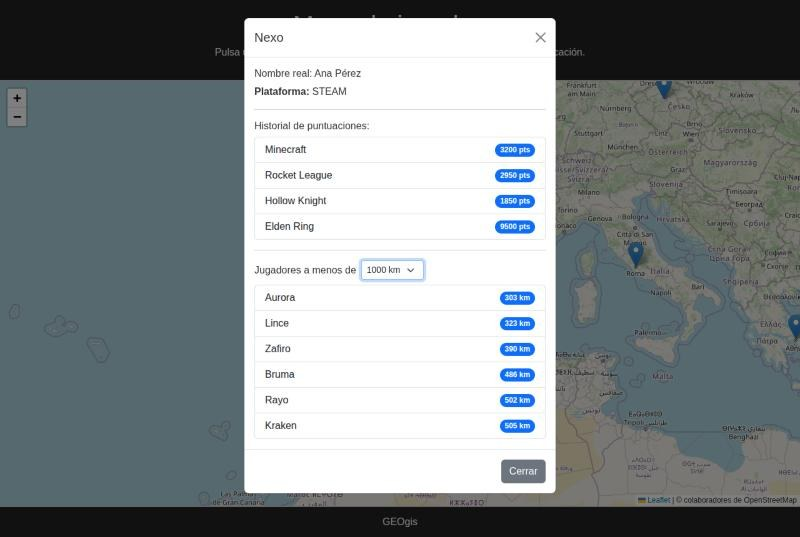
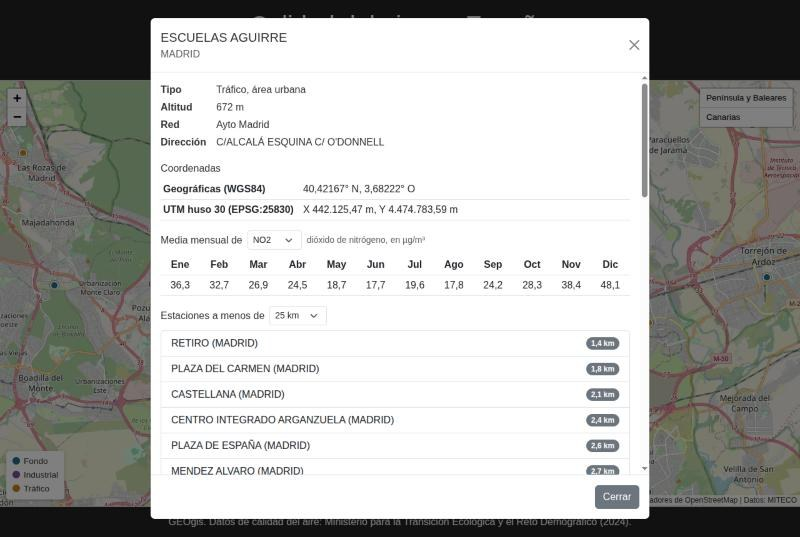
docs: README, capturas y CI para la nueva temática
- README: datos del MITECO y su licencia, sistemas de referencia, API e
  importación.
- Capturas nuevas (Península, ficha y Canarias).
- El CI de Docker importa las estaciones reales y comprueba la API.
- La ficha no repite municipio, provincia y comunidad cuando coinciden.

diff --git a/main/static/js/Main.js b/main/static/js/Main.js
@@ -163,8 +163,11 @@ document.addEventListener('DOMContentLoaded', function () {
 
     function pintarDetalle(d) {
         detalleActual = d;
-        // Muchas estaciones se llaman como su municipio: entonces no se repite.
-        ficha.lugar.textContent = (d.municipio !== d.nombre ? d.municipio + ', ' : '') + d.provincia + ' (' + d.comunidad + ')';
+        // Municipio, provincia y comunidad, sin repetir nombres (Madrid, Madrid, Madrid) ni el de la estación.
+        const lugar = [d.municipio, d.provincia, d.comunidad].filter(function (nombre, i, todos) {
+            return nombre !== d.nombre && todos.indexOf(nombre) === i;
+        });
+        ficha.lugar.textContent = lugar.join(', ');
         document.getElementById('fichaTipo').textContent = d.tipo + ', área ' + d.area.toLowerCase();
         document.getElementById('fichaAltitud').textContent = numero(d.altitud, 0) + ' m';
         document.getElementById('fichaRed').textContent = d.red;

diff --git a/README.md b/README.md
@@ -2,45 +2,84 @@
 
 [![Tests](https://github.com/EnderFairXD/GEOgis-SimpleWeb/actions/workflows/tests.yml/badge.svg)](https://github.com/EnderFairXD/GEOgis-SimpleWeb/actions/workflows/tests.yml)
 
-Aplicación web con **GeoDjango**, **PostGIS** y **Leaflet**: muestra en un mapa a los jugadores
-de videojuegos, con su plataforma y su historial de puntuaciones, y permite mover su ubicación
-arrastrando el marcador.
+Mapa de la **red oficial de estaciones de calidad del aire de España**, hecho con **GeoDjango**,
+**PostGIS** y **Leaflet**. Importa las 612 estaciones y las medias mensuales de contaminantes
+publicadas por el Ministerio para la Transición Ecológica (MITECO), y permite consultarlas en el
+mapa: datos de cada estación, sus coordenadas en el sistema UTM oficial que le corresponde y las
+estaciones que tiene alrededor.
 
-![Mapa con los jugadores repartidos por Europa](docs/capturas/mapa.jpg)
+![Mapa de España con las estaciones agrupadas](docs/capturas/mapa.jpg)
 
 ## Qué hace
 
-- **Mapa** con un marcador por jugador que tenga ubicación. Los marcadores cercanos se agrupan
-  (Leaflet.markercluster) y se separan al acercar el zoom.
-- **Ficha del jugador** al pulsar un marcador: alias, nombre, plataforma y puntuaciones por juego.
-- **Jugadores cercanos** en la ficha: los que están a menos de 250, 500, 1000 o 2000 km,
-  ordenados por distancia. La distancia la calcula PostGIS sobre la esfera terrestre.
-- **Modo arrastrar** (control de Geoman, arriba a la izquierda): al soltar un marcador, la nueva
-  posición se guarda en la base de datos. Solo aparece para usuarios con permiso para editar
-  jugadores, y el servidor rechaza (403) cualquier otro intento.
-- **Panel de administración** de Django con mapa para editar ubicaciones, y puntuaciones por jugador.
+- **Mapa** con las estaciones activas, coloreadas por tipo (fondo, industrial o tráfico) y
+  agrupadas cuando están cerca. Un control salta entre la Península y Baleares y Canarias.
+- **Ficha de la estación**: tipo y área, altitud, red, dirección, coordenadas geográficas y UTM,
+  y las medias mensuales de 2024 de cada contaminante que mide.
+- **Estaciones cercanas** a 10, 25, 50 o 100 km, ordenadas por distancia geodésica.
+- **Corrección de ubicaciones**: los usuarios con permiso pueden arrastrar una estación en el mapa
+  (modo arrastrar de Geoman) y la nueva posición se guarda. El servidor rechaza (403) a cualquier
+  otro usuario.
+- **Panel de administración** con mapa para editar estaciones y consultar sus mediciones.
 
-| Ficha con jugadores cercanos | Modo arrastrar (editor) |
+| Ficha de una estación | Canarias |
 |---|---|
-| ![Ficha con el historial de puntuaciones](docs/capturas/ficha.jpg) | ![Mapa con el control de arrastrar activo](docs/capturas/arrastrar.jpg) |
+| ![Ficha de Escuelas Aguirre con las medias mensuales de NO2](docs/capturas/ficha.jpg) | ![Estaciones de las Islas Canarias](docs/capturas/canarias.jpg) |
 
-![Panel de administración con el mapa de ubicación](docs/capturas/admin.jpg)
+## Sistemas de referencia
+
+Las estaciones se guardan como `geography` en **WGS84 (EPSG:4326)**. Así PostGIS calcula las
+distancias **sobre el elipsoide**, con la misma precisión en Galicia, Cataluña o Canarias.
+Proyectar toda España en un único huso UTM (por ejemplo EPSG:25830) desvía las distancias un
+0,2–0,3 % en los husos vecinos y casi un 2 % en Canarias.
+
+La ficha muestra además las coordenadas en metros en el **sistema UTM oficial de cada zona**:
+
+| Zona | Huso | Sistema |
+|---|---|---|
+| Galicia y oeste peninsular | 29 | ETRS89 / UTM 29N (EPSG:25829) |
+| Centro peninsular, Ceuta y Melilla | 30 | ETRS89 / UTM 30N (EPSG:25830) |
+| Cataluña, este peninsular y Baleares | 31 | ETRS89 / UTM 31N (EPSG:25831) |
+| Canarias | 28 | REGCAN95 / UTM 28N (EPSG:4083) |
+
+Los tests comprueban las coordenadas UTM contra las publicadas por el Ayuntamiento de Madrid
+(menos de 1 m de diferencia) y que las distancias son las del elipsoide y no las de una esfera.
+
+## Datos
+
+| Qué | Fichero del MITECO |
+|---|---|
+| Estaciones y catálogo de contaminantes | `Metainformacion_2024.xlsx` |
+| Medias mensuales | `Datos_HH_2024.zip` (horarios) y `Datos_DD_2024.zip` (diarios) |
+
+Los importadores descargan los ficheros, así que no se guardan en el repositorio. Las medias
+mensuales se calculan al importar: un año de datos horarios son unos 28 millones de valores y en
+la base de datos quedan unas 48.000 medias. Se usan los datos horarios y, para los meses sin
+ellos (metales, benzo(a)pireno, captadores manuales), los diarios. Se descartan los valores
+negativos.
+
+**Fuente:** Ministerio para la Transición Ecológica y el Reto Demográfico,
+[datos oficiales de calidad del aire 2024](https://www.miteco.gob.es/es/calidad-y-evaluacion-ambiental/temas/atmosfera-y-calidad-del-aire/evaluacion-y-datos-de-calidad-del-aire/datos/datos-oficiales-2024.html).
+Reutilización según la Ley 37/2007 de reutilización de la información del sector público.
 
 ## Arranque rápido con Docker
 
-Solo necesitas Docker. Levanta PostgreSQL + PostGIS y la app, aplica las migraciones y carga
-los datos de ejemplo:
+Solo necesitas Docker. Levanta PostgreSQL + PostGIS y la app y aplica las migraciones:
 
 ```bash
 docker compose up --build
 ```
 
-Abre <http://localhost:8000/>. Para entrar al panel de administración y poder mover jugadores,
-crea un usuario en otra terminal:
+En otra terminal, importa los datos (una sola vez: se guardan en el volumen de la base de datos)
+y crea un usuario para el panel de administración:
 
 ```bash
+docker compose exec web python manage.py importar_estaciones
+docker compose exec web python manage.py importar_mediciones
 docker compose exec web python manage.py createsuperuser
 ```
+
+Abre <http://localhost:8000/>.
 
 ## Instalación manual
 
@@ -64,32 +103,35 @@ psql -d GeoDjango -c "CREATE EXTENSION postgis;"
 cp .env.example .env     # rellena DB_PASSWORD y DJANGO_SECRET_KEY (se lee automáticamente)
 
 python manage.py migrate
-python manage.py cargar_demo        # opcional: 15 jugadores y 8 juegos de ejemplo
+python manage.py importar_estaciones
+python manage.py importar_mediciones
 python manage.py createsuperuser
 python manage.py runserver
 ```
 
-Abre <http://127.0.0.1:8000/> para el mapa y <http://127.0.0.1:8000/admin/> para añadir
-jugadores, videojuegos y puntuaciones.
+Abre <http://127.0.0.1:8000/> para el mapa y <http://127.0.0.1:8000/admin/> para el panel.
 
 ## API
 
 | Método y ruta | Devuelve |
 |---|---|
-| `GET /api/jugadores/` | `FeatureCollection` GeoJSON con los jugadores que tienen ubicación |
-| `GET /api/jugadores/<id>/cercanos/?km=500` | Jugadores a menos de `km` kilómetros, del más cercano al más lejano |
-| `POST /api/jugadores/<id>/ubicacion/` | Guarda `{"lat": …, "lng": …}`. Requiere el permiso `main.change_jugador` |
+| `GET /api/estaciones/` | `FeatureCollection` GeoJSON con las estaciones activas (sin mediciones, para que el mapa cargue rápido) |
+| `GET /api/estaciones/<id>/` | Ficha: datos, coordenadas WGS84 y UTM, y medias mensuales por contaminante |
+| `GET /api/estaciones/<id>/cercanas/?km=25` | Estaciones activas a menos de `km` kilómetros (hasta 1000), de la más cercana a la más lejana |
+| `POST /api/estaciones/<id>/ubicacion/` | Guarda `{"lat": …, "lng": …}` (dentro de España) y devuelve las nuevas coordenadas UTM. Requiere el permiso `main.change_estacion` |
 
 ## Estructura
 
 | Ruta | Contenido |
 |---|---|
 | `jugadores/` | Configuración del proyecto Django |
-| `main/models.py` | `Jugador` (con `PointField`), `Videojuego` y `Puntuacion` |
+| `main/models.py` | `Estacion` (`PointField` geography), `Contaminante` y `MedicionMensual` |
+| `main/geo.py` | Huso y coordenadas UTM oficiales de cada punto de España |
+| `main/importacion.py` | Lectura de los ficheros del MITECO y cálculo de las medias mensuales |
+| `main/management/commands/` | Comandos `importar_estaciones` e `importar_mediciones` |
 | `main/views.py` | Vista del mapa y endpoints de la API |
-| `main/static/js/Main.js` | Mapa, agrupación, ficha del jugador y guardado al arrastrar |
-| `main/management/commands/cargar_demo.py` | Datos de ejemplo (ficticios) |
-| `main/tests.py` | Tests de la API, permisos, admin, modelos y datos de ejemplo |
+| `main/static/js/Main.js` | Mapa, agrupación, ficha de la estación y corrección de ubicaciones |
+| `main/tests/` | Tests de coordenadas, importación, API, permisos y admin |
 | `.github/workflows/tests.yml` | CI: tests con PostGIS y arranque completo con Docker Compose |
 
 ## Tests
@@ -99,8 +141,9 @@ python manage.py test                                  # instalación manual
 docker compose run --rm web python manage.py test      # con Docker
 ```
 
-Necesitan la misma base de datos PostGIS (Django crea y borra una base de pruebas aparte).
+Necesitan la misma base de datos PostGIS (Django crea y borra una base de pruebas aparte). No
+descargan nada: generan ficheros con el formato del MITECO en una carpeta temporal.
 
 ## Licencia
 
-MIT © Javier Cortés Vidal
+Código: MIT © Javier Cortés Vidal. Datos: MITECO (ver [Datos](#datos)).
